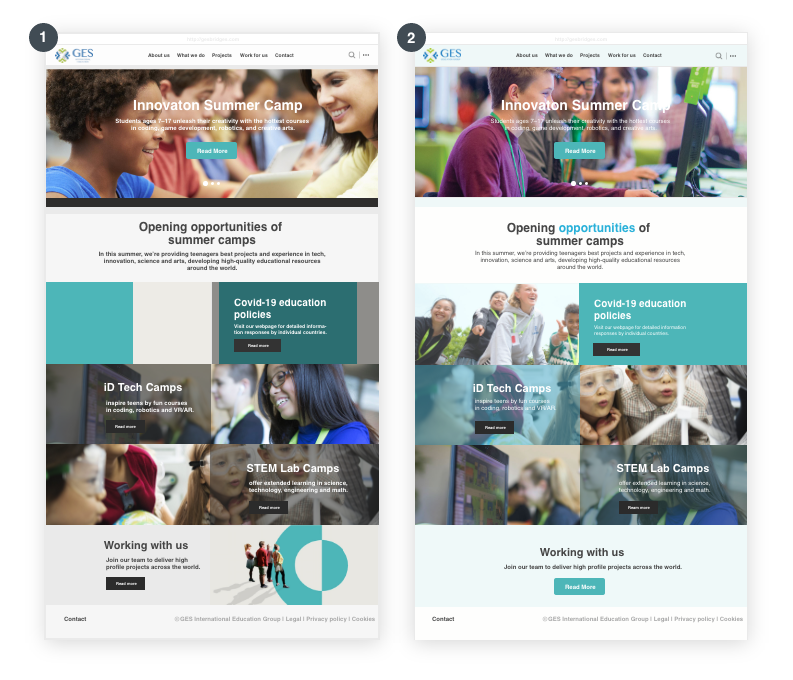
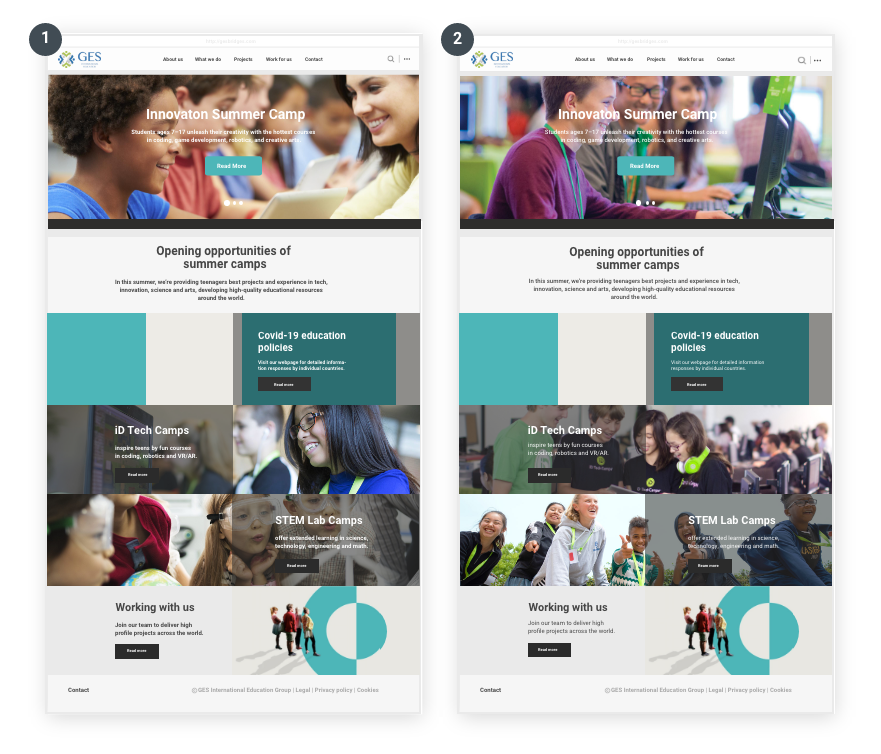
Revert "Add files via upload"
This reverts commit 32bede58e4591edbb6ffc52a927d024bd95b37f9.

diff --git a/ges.html b/ges.html
@@ -163,11 +163,13 @@
       <img class="img-responsive" src="img/ges-persona.png" alt="">
       <div class="large-spacing"></div>
       <h1 class="case-study-large-header">Wireframe</h1>
-      <p class="case-study-paragraph">Our first round of iterations focused on exploring different structural approaches for the homepage layout. We created two low-fidelity wireframe concepts to test how content hierarchy, imagery, and calls-to-action could guide users through the page.</p>
+      <p class="case-study-paragraph">Our first round of iterations focused on the implementation on the home page. We began by creating low-fidelity wireframes of what the first 2 sections could look like.</p>
       <div class="paragraph-spacing"></div>
-      <p class="case-study-paragraph">Concept 1 follows a more traditional modular layout. The hero section introduces the page with a headline, short description, and primary CTA. Below it, content is organized into structured blocks, including a row of featured items, a highlighted information section, and supporting content such as testimonials. This layout emphasizes clarity and easy scanning by separating information into clearly defined sections.</p>
+      <p class="case-study-paragraph">Based on our goals and analysis, the direction that we were going towards was attractive photography accompanied with minimal content and straightforward CTA, driving user to browsing what’s new and explore further.</p>
       <div class="paragraph-spacing"></div>
-      <p class="case-study-paragraph">Concept 2 explores a more visually driven layout. The hero section uses a full-width image with centrally aligned text and CTA to create a stronger first impression. The following sections present content in a grid-based format that alternates between imagery and text blocks. This approach creates a more dynamic visual rhythm and highlights individual pieces of content while maintaining a clear navigation flow.</p>
+      <p class="case-study-paragraph">As for the second section, we decided to use a more direct view of the confirmed projects. We decided this because it piques the interest of the viewer and could entice them to view all of the projects.</p>
+      <div class="paragraph-spacing"></div>
+      <p class="case-study-paragraph">For the second part, we decided to display the projects using a direct view of project picture and brief introduction. We decided this because it not only can arouse the interest of the viewer, but also allows them to have a general understanding of the project to facilitate follow-up click to view product details.</p>
       <div class="paragraph-spacing"></div>
       <img class="img-responsive" src="img/ges-wireframe.png" alt="">
       </div>
@@ -176,22 +178,22 @@
      <div class="case-study-section-container shopify-alt-grey">
       <div class="case-study-section-info-container">
       <h1 class="case-study-large-header">Exploration Feedback</h1>
-      <p class="case-study-paragraph">"Concept 2 feels more intuitive than Concept 1. The full-width hero section with centered text creates a stronger visual focus and immediately draws attention to the key message."</p>
+      <p class="case-study-paragraph">"Concept 2 looks more intuitive than Concept 1, and the full bleed imagery gives a stronger visual impact."</p>
       <div class="paragraph-spacing"></div>
-      <p class="case-study-paragraph">"Concept 2 is closer to what we’re aiming for. The headline and button placed in the center make the call-to-action easier to notice compared to the left-aligned layout in Concept 1."</p>
+      <p class="case-study-paragraph">"Concept 2 is closer to what we want. The text and button in the middle have a more direct view than at the left side. I incline to catch it for the first sight.”</p>
       <div class="paragraph-spacing"></div>
-      <p class="case-study-paragraph">"The grid layout in Concept 2 also provides more flexibility for showcasing imagery and featured content, making it more scalable for future updates."</p>
+      <p class="case-study-paragraph">"Concept 2 has more scalability for the imagery than Concept 1.”</p>
       </div>
     </div>
 
     <div class="case-study-section-container">
     <div class="case-study-section-info-container">
         <h1 class="case-study-large-header">Iterations</h1>
-         <p class="case-study-paragraph">Following the wireframe exploration, we decided to focus on the 2nd concept and developed two higher-fidelity homepage prototypes to further evaluate layout structure, visual hierarchy, and the use of brand elements.</p>
+         <p class="case-study-paragraph">Based on the previous feedback received, we decided to focus on the 2nd concept. Here you can see some of the iterations that we explored.</p>
         <div class="paragraph-spacing"></div>
-        <p class="case-study-paragraph">Concept 1 adopts a structured, modular layout. Program sections are presented through card-based blocks that combine imagery, text overlays, and teal color panels. The stronger use of the brand color helps create clear visual anchors across the page and reinforces the organization’s visual identity. This approach organizes information into distinct sections, making it easier for users to scan and quickly understand the different program offerings.</p>
+        <p class="case-study-paragraph">We iterated on how to display images and text in the top heading for the best results. We tried different sizes and layers of text headings (whether to use secondary heading).</p>
         <div class="paragraph-spacing"></div>
-        <p class="case-study-paragraph">Concept 2 explores a more visually immersive layout with larger imagery and a lighter, more neutral color palette. The design relies more heavily on photography to convey the learning environment and camp experience, creating a smoother visual flow between sections.</p>
+        <p class="case-study-paragraph">In addition, we also explored whether to choose the banner photographs taken from campsites or conceptual images showing teenagers learning and innovating.</p>
         <div class="paragraph-spacing"></div>
         <img class="img-responsive" src="img/ges-iteration.png" alt="">
       </div>
@@ -202,13 +204,11 @@
       <h1 class="case-study-large-header">Iteration Feedback</h1>
       <p class="case-study-paragraph">These concepts were presented to the client, project manager, and brand director.</p>
       <div class="paragraph-spacing"></div>
-      <p class="case-study-paragraph">“Concept 1 presents the programs more clearly. The modular layout separates the content well and makes it easier to scan.”</p>
+      <p class="case-study-paragraph">“The banner image of Concept 1 as a background can display the text more clearly.”</p>
       <div class="paragraph-spacing"></div> 
-      <p class="case-study-paragraph">“The stronger use of the brand color in Concept 1 creates better visual consistency and reinforces the brand identity.”</p>
+      <p class="case-study-paragraph">"The fonts in Concept 2 which use the mix of bold, medium and regular to distinguish between the primary title and the secondary title seem to be more coordinated than the font which are all bold used in Concept 1. In addition, the font for “Read more” in both Concept 1&2 could increase to a bigger size to drive viewers to click."</p>
       <div class="paragraph-spacing"></div> 
-      <p class="case-study-paragraph">“Concept 2 feels more visually engaging because the larger imagery highlights the camp environment and learning experience.”</p>
-       <div class="paragraph-spacing"></div> 
-       <p class="case-study-paragraph">“However, Concept 1 strikes a better balance between visual appeal and information clarity.”</p>
+      <p class="case-study-paragraph">"From an aesthetic point of view, the conceptual photographs in Concept 1 are better than the photographs shoot from campsites in Concept 2."</p>
       </div>
     </div>
 
